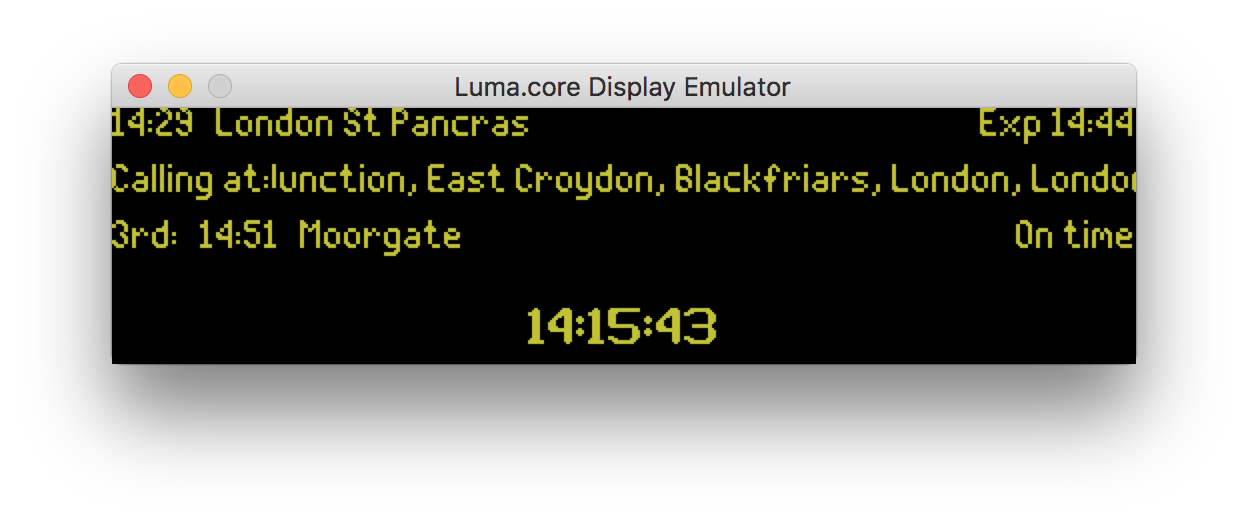
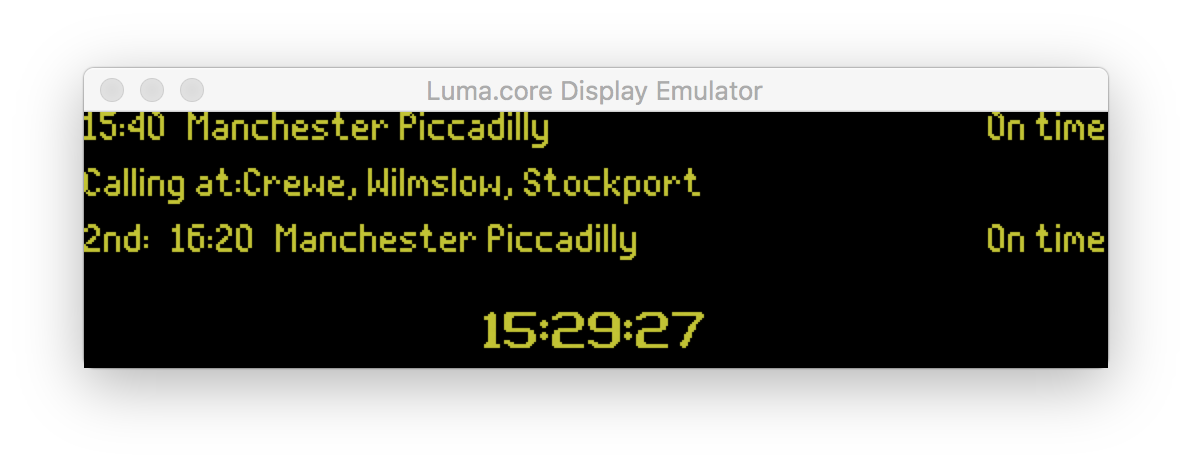
Udpate readme and emulator output

Changed region(s): [[0.0621, 0.1197, 0.9312, 0.8077]]

diff --git a/src/main.py b/src/main.py
@@ -103,28 +103,28 @@ try:
     if not API_ID or not API_KEY:
         raise EnvironmentError("API_ID or API_KEY environment variables not set!")
 
-    # response = requests.get(
-    #     "http://transportapi.com/v3/uk/train/station/EUS/live.json?app_id="
-    #     + API_ID
-    #     + "&app_key="
-    #     + API_KEY
-    #     + "&calling_at=MAN"
-    # )
-    # data = json.loads(response.text)
-    with open(
-        os.path.dirname(os.path.realpath(__file__)) + "/departures.json"
-    ) as json_file:
-        data = json.load(json_file)
+    response = requests.get(
+        "http://transportapi.com/v3/uk/train/station/EUS/live.json?app_id="
+        + API_ID
+        + "&app_key="
+        + API_KEY
+        + "&calling_at=MAN"
+    )
+    data = json.loads(response.text)
+    # with open(
+    #     os.path.dirname(os.path.realpath(__file__)) + "/departures.json"
+    # ) as json_file:
+    #     data = json.load(json_file)
 
     board = Board(device, interval)
 
     if len(data["departures"]["all"]):
-        # response = requests.get(data["departures"]["all"][0]["service_timetable"]["id"])
-        # timetable = json.loads(response.text)
-        with open(
-            os.path.dirname(os.path.realpath(__file__)) + "/timetable.json"
-        ) as json_file:
-            timetable = json.load(json_file)
+        response = requests.get(data["departures"]["all"][0]["service_timetable"]["id"])
+        timetable = json.loads(response.text)
+        # with open(
+        #     os.path.dirname(os.path.realpath(__file__)) + "/timetable.json"
+        # ) as json_file:
+        #     timetable = json.load(json_file)
         timetable_stops = ", ".join(
             [stop["station_name"] for stop in timetable["stops"][1:-1]]
         )

diff --git a/README.md b/README.md
@@ -63,11 +63,13 @@ docker-compose up -d --build && docker-compose logs -f
 Or if you have a Python 3 environment set up:
 
 ```
+export API_ID=<your-transportapi-id>
+export API_KEY=<your-transportapi-key>
 pip install -r requirements.txt
 python ./src/main.py --display pygame --width 256 --height 64
 ```
 
-![Emulator output](assets/emulator.png) ![Departure board](assets/departure-board.png)
+![Emulator output](assets/emulator.png)
 
 # Hardware
 
@@ -83,7 +85,7 @@ Also see [this blog post](https://www.balena.io/blog/build-a-raspberry-pi-powere
 
 > Some displays have a solder-blob or zero-ohm resistor jumper on the back of the board that you may need to move in order to enable the display for SPI communication. If you don't get any output, check this first! In the case of my display it meant moving R6 to R5 to enable 4SPI as dictated by a small data table printed on the back of the display board.
 
-In my case, I had to re-solder the R6 zero-ohm resitor to R5 (see top left of the circuit) to enable 4SPI, as shown on the table
+In my case, I had to re-solder the R6 zero-ohm resistor to R5 (see top left of the circuit) to enable 4SPI, as shown on the table
 printed on the bottom right of the circuit.
 
 ![4SPI Resistor config](assets/resistor.jpg)
